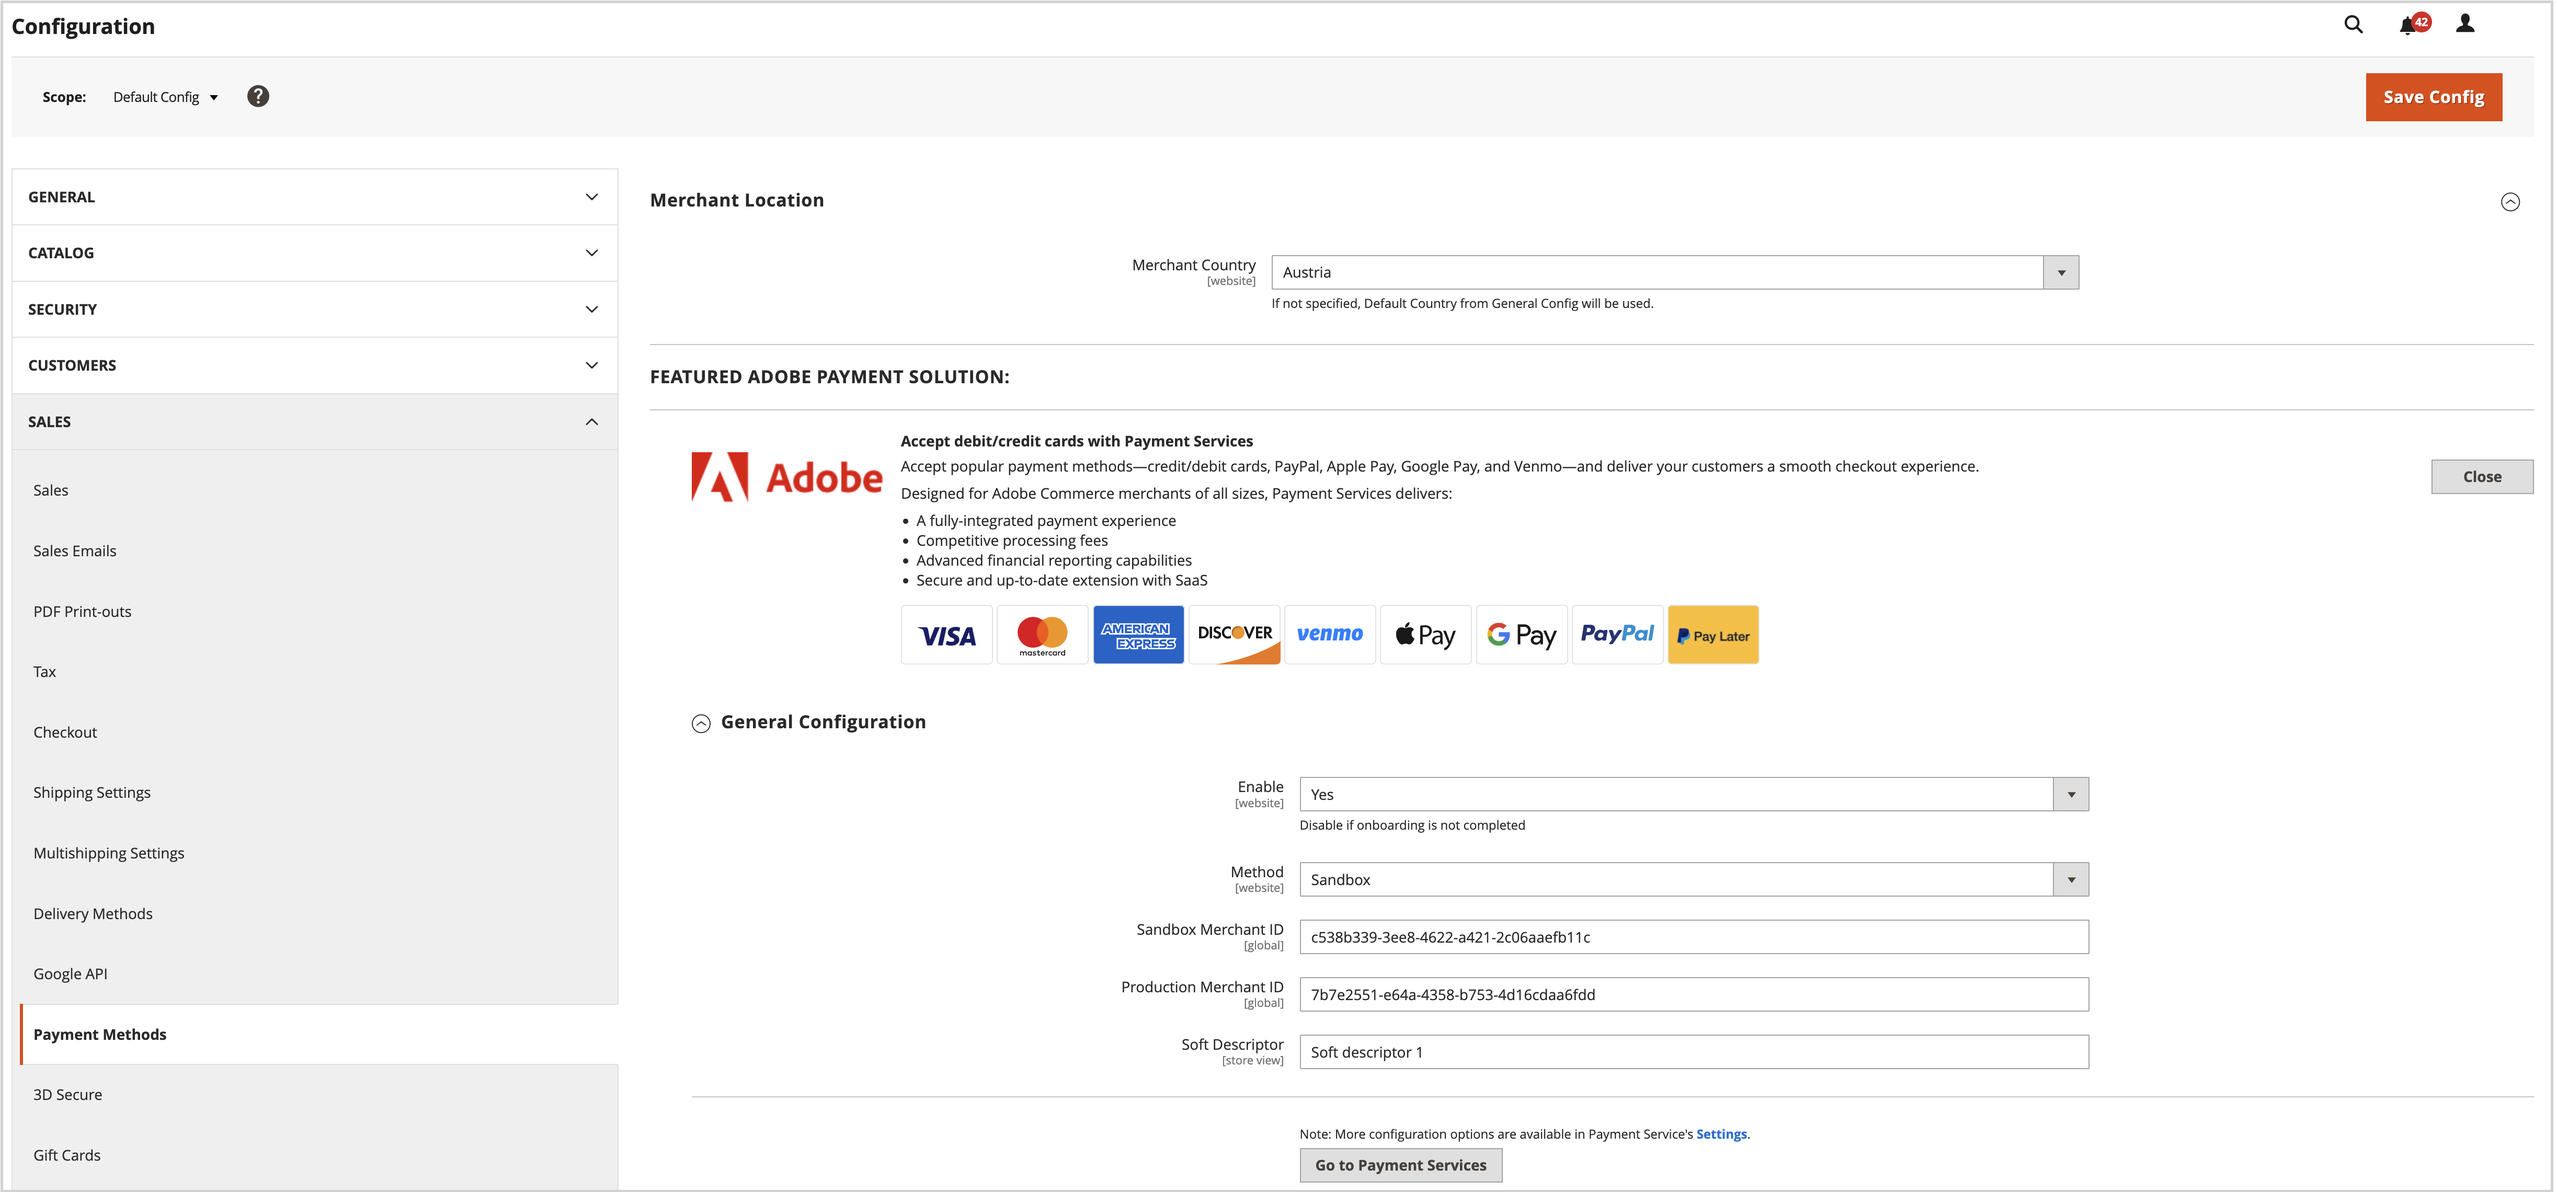
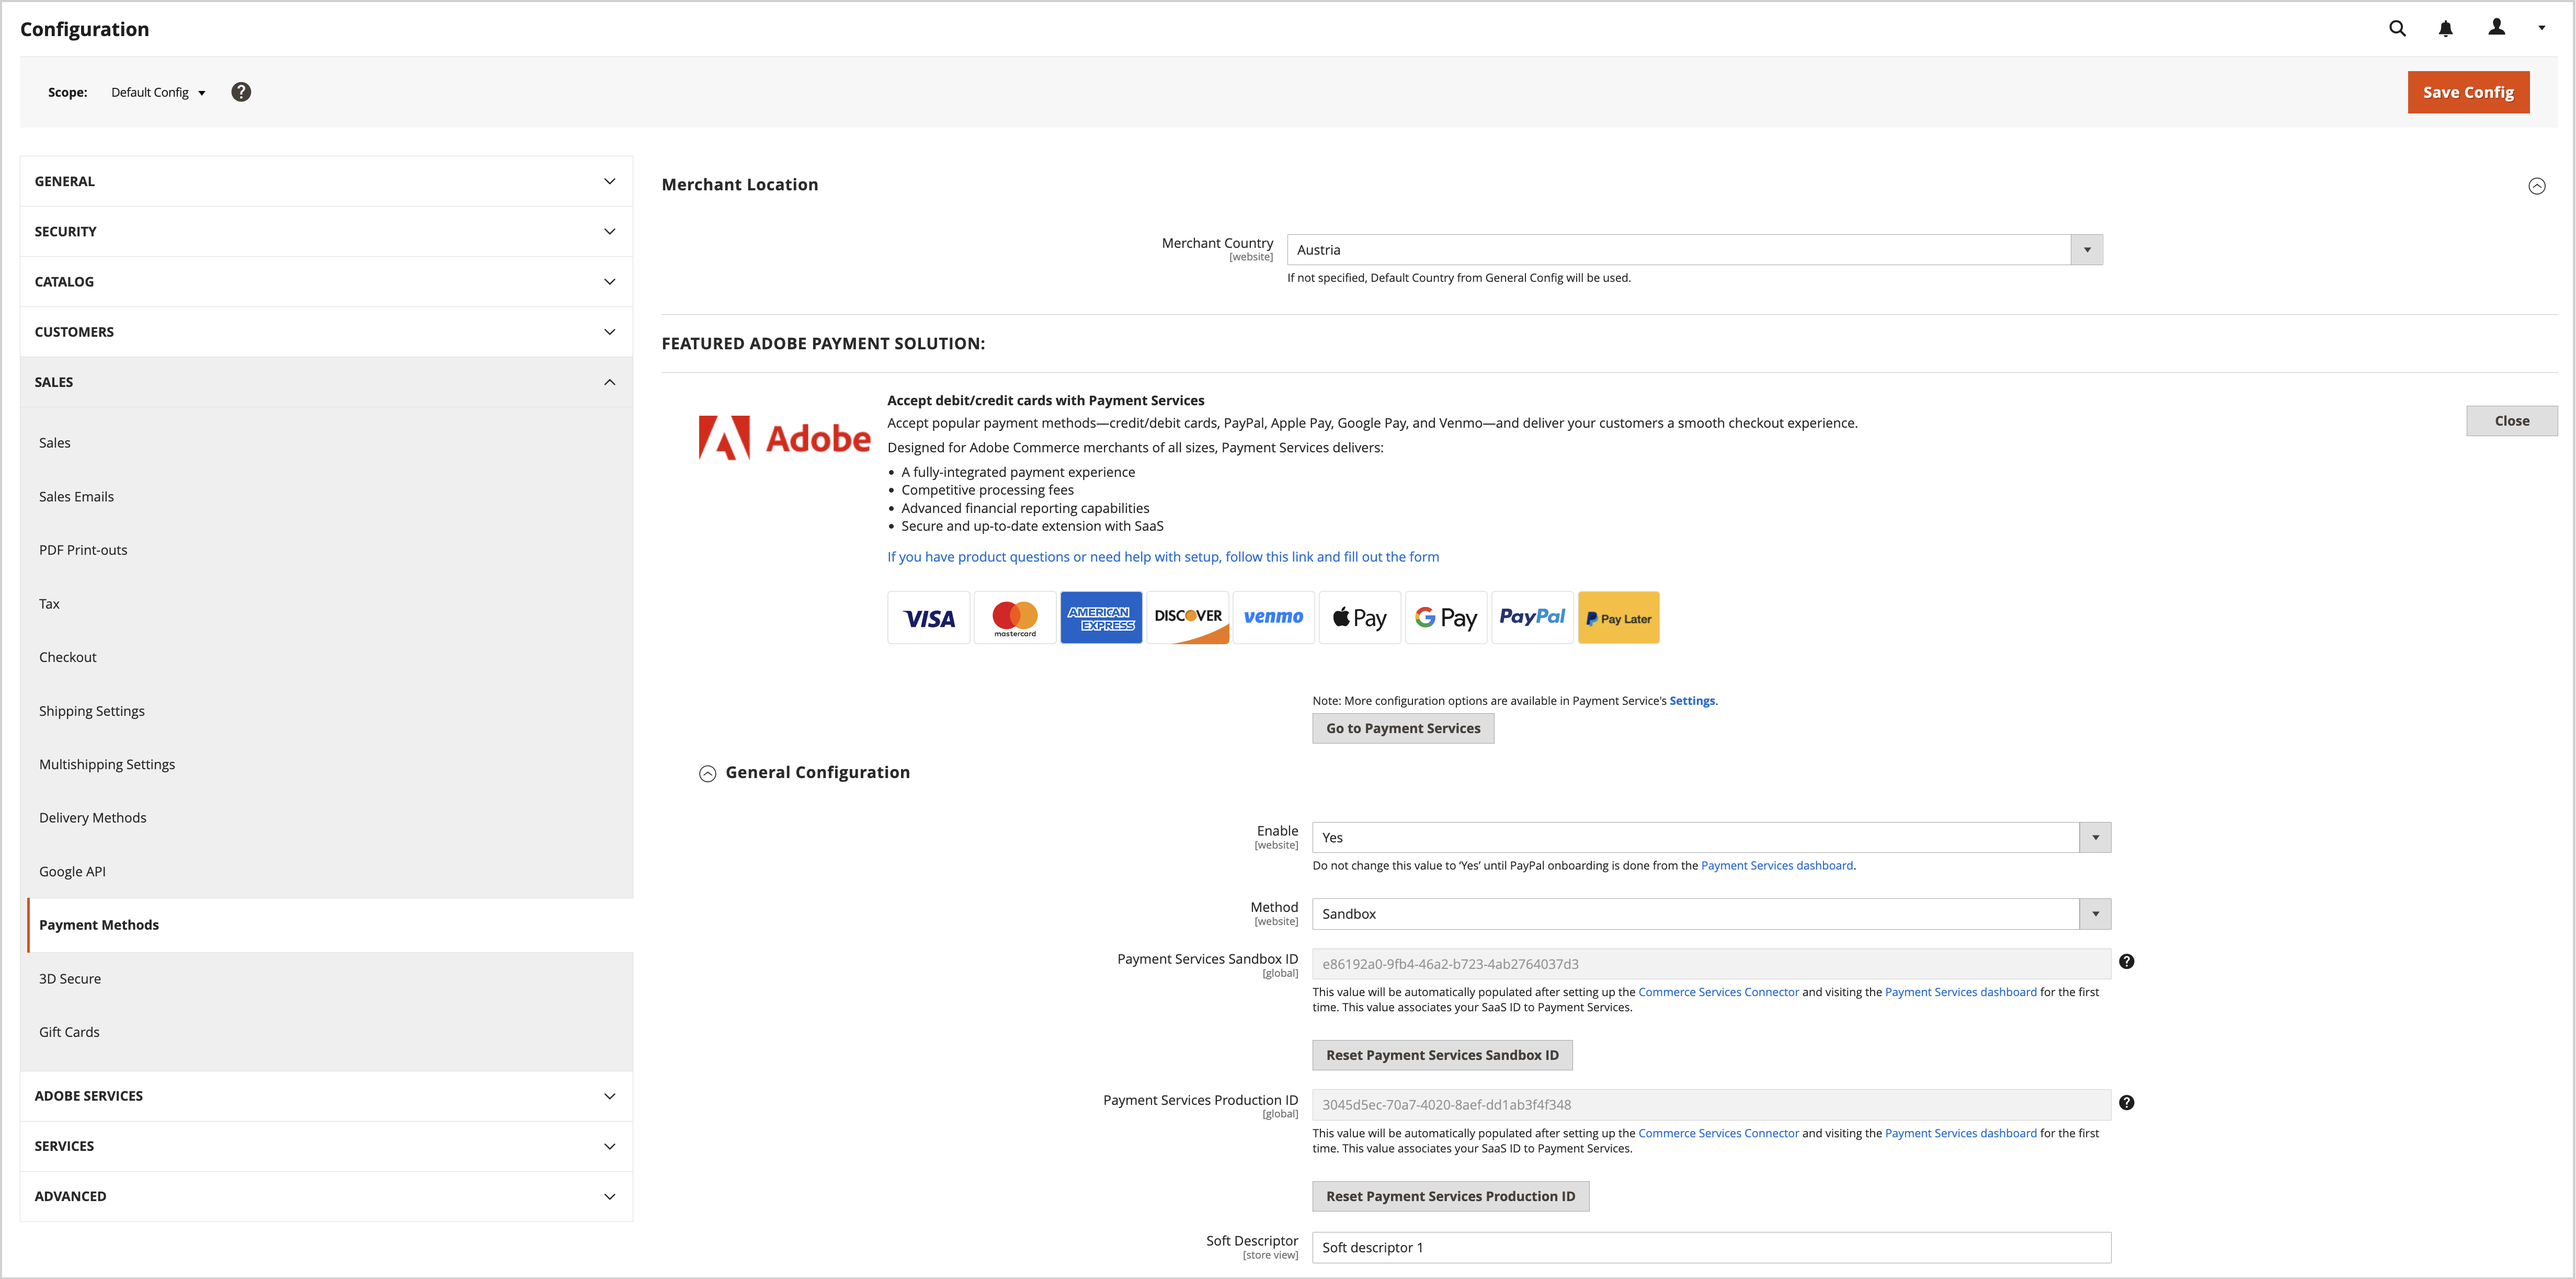
PAY-5613: Updated page for config admin/legacy with changes in mp_merchant_id (#597)
* Updated page for config admin/legacy with changes in mp_merchant_id

* updated react settings view with id changes

* Reviewed PR with comments about commerce services connector keys

---------

diff --git a/help/payment-services/configure-admin.md b/help/payment-services/configure-admin.md
@@ -18,20 +18,18 @@ You can enable [!DNL Payment Services] for your store and your  _[!UICONTROL Mer
 
 1. On the _Admin_ sidebar, go to **[!UICONTROL Stores]** > _[!UICONTROL Settings]_ > **[!UICONTROL Configuration]**.
 1. In the left panel, expand **[!UICONTROL Sales]** and choose **[!UICONTROL Payment Methods]**.
-
-   ![Methods view](assets/methods-view.png){width="400" zoomable="yes"}
-
-1. Set the _[!UICONTROL Merchant Country]_ field in the _[!UICONTROL Merchant Location]_.
+1. Set the _[!UICONTROL Merchant Country]_ field in the _[!UICONTROL Merchant Location]_. If a _[!UICONTROL Merchant Country]_ is not specified, the _[!UICONTROL Default Country]_ from the general configuration is used.
 1. Expand the _[!UICONTROL FEATURED ADOBE PAYMENT SOLUTION]_ section to access the _[!UICONTROL [!DNL Payment Services]]_ section.
 1. In the _[!UICONTROL [!DNL Payment Services]]_ section, expand the _[!UICONTROL General Configuration]_ section.
 1. For **Enable**, set it to `Yes` to enable [!DNL Payment Services] for your store.
 1. For **Method**, set it to `Sandbox` if you are still testing [!DNL Payment Services] for your store or `Production` if you are ready to enable live payments.
+1. Your **[!UICONTROL Payment Services Sandbox ID]** and **[!UICONTROL Payment Services Production ID]** values are automatically populated once you setup the [Commerce Services Connector](https://experienceleague.adobe.com/en/docs/commerce-merchant-services/user-guides/integration-services/saas){target=_blank} and visit the [!DNL Payment Services] dashboard for the first time. Do this to finish the onboarding for your sandbox and/or production environments. These values associate your SaaS ID to [!DNL Payment Services].
 
-   >[!WARNING]
-   >
-   >Your _[!UICONTROL Sandbox Merchant ID]_ and _[!UICONTROL Production Merchant ID]_ are auto-generated and present in their respectable fields when you have finished onboarding for the sandbox and/or production. Do not remove or change these IDs.
+    >[!WARNING]
+    >
+    > If you need to change your dataspace ID in the Commerce Services Connector, you need to reset your [!DNL Payment Services] ID. Click **Reset Payment Services ID** to reset your Sandbox or Production IDs. If you reset your [!DNL Payment Services] IDs, you must onboard again.
 
-1. For **Soft Descriptor** (custom values which show on customer transaction bank statements to delineate between stores/brands/catalogs), add your custom text (up to 22 characters) in the text field, replacing `Custom descriptor` or the existing value.
+1. For **Soft Descriptor** (custom values which show on customer transaction bank statements to delineate between stores/brands/catalogs), add your custom text (up to 22 characters) in the text field, replacing `Soft descriptor` or the existing value.
 1. Click **[!UICONTROL Save Config]** to save your changes.
 1. Navigate to **[!UICONTROL System]** > **[!UICONTROL Cache Management]**, and then click **[!UICONTROL Flush Cache]** to refresh all invalid caches.
 
@@ -43,8 +41,8 @@ You can enable [!DNL Payment Services] for your store and your  _[!UICONTROL Mer
 |---|---|---|
 | [!UICONTROL Enable] | website | Enable or disable [!DNL Payment Services] for your website. Options: `[!UICONTROL Yes]` / `[!UICONTROL No]` |
 | [!UICONTROL Method] | store view | Set the method, or environment, for your store. Options: [!UICONTROL Sandbox] / [!UICONTROL Production] |
-| [!UICONTROL Sandbox Merchant ID] | store view | Your sandbox merchant ID, which is auto-generated during sandbox onboarding. Do not change or alter this ID. |
-| [!UICONTROL Production Merchant ID] | store view | Your production merchant ID, which is auto-generated during sandbox onboarding. Do not change or alter this ID. |
+| [!UICONTROL Payment Services Sandbox ID] | store view | Your sandbox merchant ID, which is auto-generated during sandbox onboarding. |
+| [!UICONTROL Payment Services Production ID] | store view | Your production merchant ID, which is auto-generated during sandbox onboarding. |
 | [!UICONTROL Soft Descriptor] | website or store view | Add a soft descriptor to your website(s) and store view(s) to add information to customer transactions which delineate brands, stores, or product lines. |
 
 ## [!UICONTROL Credit Card Fields]

diff --git a/help/payment-services/settings.md b/help/payment-services/settings.md
@@ -24,9 +24,9 @@ You can enable [!DNL Payment Services] for your website, and enable either sandb
 
 1. On the _Admin_ sidebar, go to **[!UICONTROL Sales]** > **[!UICONTROL Payment Services]**.
 
-   ![Home view](assets/payment-services-menu-small.png){width="400" zoomable="yes"}
-
 1. Click **[!UICONTROL Settings]**. See [Introduction to [!DNL Payment Services] Home](payments-home.md) for more information.
+
+   ![React settings view](assets/react-settings-view.png){width="500" zoomable="yes"}
 
    The _[!UICONTROL General]_ section includes settings used to enable [!DNL Payment Services] as the payment method.
 
@@ -34,9 +34,11 @@ You can enable [!DNL Payment Services] for your website, and enable either sandb
 
 1. If you are still testing [!DNL Payment Services] for your store, set **Payment mode** to `Sandbox`. If you are ready to enable live payments, set it to `Production`.
 
-   >[!NOTE]
-   >
-   >Your _[!UICONTROL Sandbox Merchant ID]_ and _[!UICONTROL Production Merchant ID]_ are auto-generated and present in their respectable fields when you finish onboarding for the sandbox and/or production.
+1. Your **[!UICONTROL Payment Services Sandbox ID]** and **[!UICONTROL Payment Services Production ID]** values are automatically populated once you setup the [Commerce Services Connector](https://experienceleague.adobe.com/en/docs/commerce-merchant-services/user-guides/integration-services/saas){target=_blank} and visit the [!DNL Payment Services] dashboard for the first time. Do this to finish the onboarding for your sandbox and/or production environments. These values associate your SaaS ID to [!DNL Payment Services].
+
+    >[!WARNING]
+    >
+    > If you reset your [!DNL Payment Services] IDs, you must onboard again.
 
 1. Click **[!UICONTROL Save]**.
 
@@ -53,7 +55,7 @@ You can add a [!UICONTROL Soft Descriptor] to your website(s) or individual stor
 1. On the _Admin_ sidebar, go to **[!UICONTROL Sales]** > **[!UICONTROL Payment Services]**.
 1. Click **[!UICONTROL Settings]**. See [Introduction to [!DNL Payment Services] Home](payments-home.md) for more information.
 1. Select the website or store view, in the **[!UICONTROL Scope]** dropdown menu, for which you want to create a soft descriptor. For initial setup, leave this as **[!UICONTROL Default]** to set the default value.
-1. Add your custom text (up to 22 characters) in the text field, replacing `Custom descriptor`.
+1. Add your custom text (up to 22 characters) in the text field, replacing `Soft descriptor`.
 1. Click **[!UICONTROL Save]**.
 1. To create a soft descriptor other than the configured default for a website or store view:
    1. Select the website or store view, in the **[!UICONTROL Scope]** dropdown menu, for which you want to create a soft descriptor.
@@ -73,8 +75,8 @@ You can add a [!UICONTROL Soft Descriptor] to your website(s) or individual stor
 |---|---|---|
 | [!UICONTROL Enable] | website | Enable or disable [!DNL Payment Services] for your website. Options: [!UICONTROL Off] / [!UICONTROL On] |
 | [!UICONTROL Payment mode] | store view | Set the method, or environment, for your store. Options: [!UICONTROL Sandbox] / [!UICONTROL Production] |
-| [!UICONTROL Sandbox Merchant ID] | store view | Your sandbox merchant ID, which is auto-generated during sandbox onboarding. |
-| [!UICONTROL Production Merchant ID] | store view | Your production merchant ID, which is auto-generated during sandbox onboarding. |
+| [!UICONTROL Payment Services Sandbox ID] | store view | Your sandbox merchant ID, which is auto-generated during sandbox onboarding. |
+| [!UICONTROL Payment Services Production ID] | store view | Your production merchant ID, which is auto-generated during sandbox onboarding. |
 | [!UICONTROL Soft Descriptor] | website or store view | Add a soft descriptor to your website(s) and store view(s) to add information to customer transactions which delineate brands, stores, or product lines. The [!UICONTROL Use website] toggle applies any soft descriptor added at the website level. The [!UICONTROL Use default] toggle applies any soft descriptor added as the default.|
 
 ## Configure payment options
